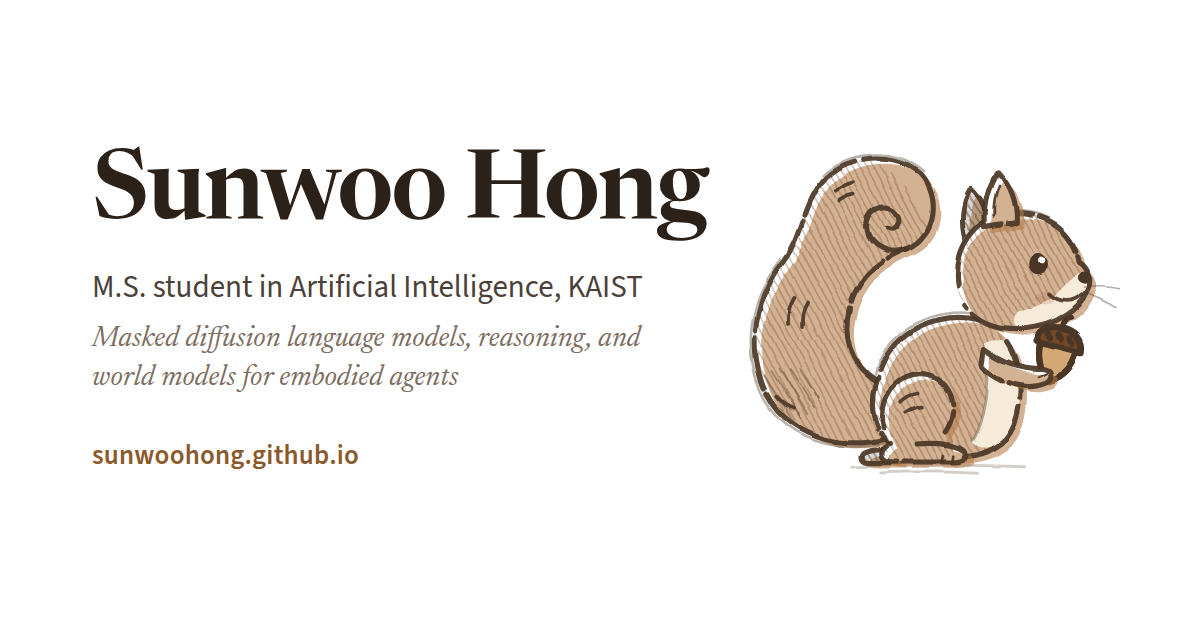
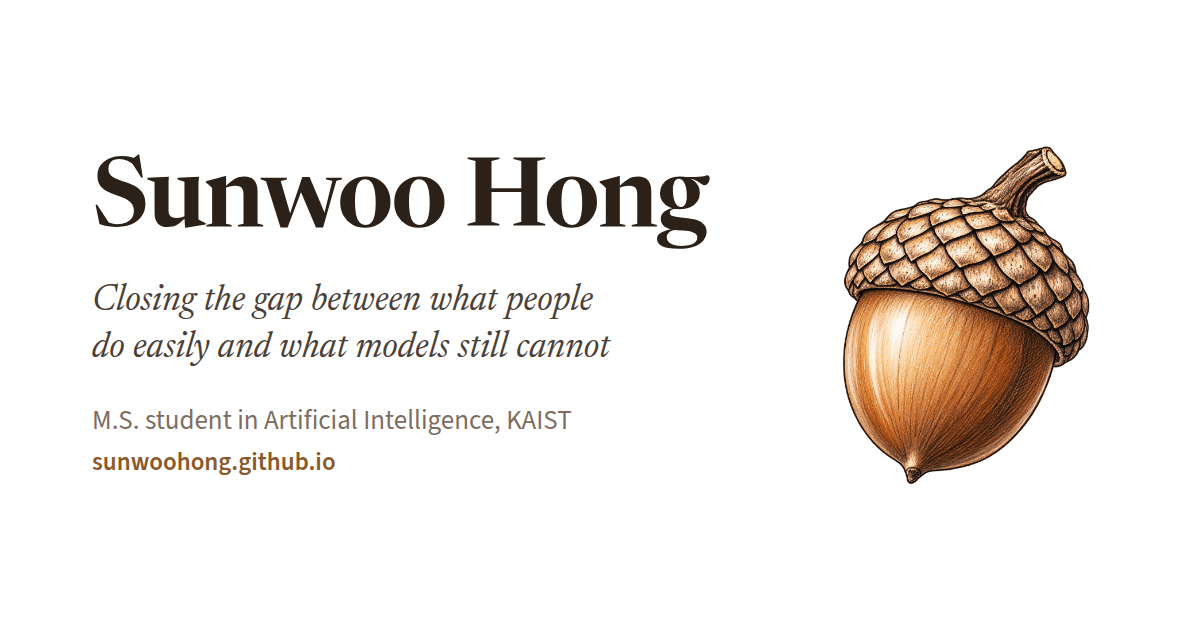
Add files via upload

Changed region(s): [[0.6167, 0.2111, 0.925, 0.7841], [0.0617, 0.4222, 0.555, 0.754], [0.0617, 0.2111, 0.6167, 0.3921]]

diff --git a/index.html b/index.html
@@ -6,23 +6,23 @@
 
 <title>Sunwoo Hong</title>
 <meta name="author" content="Sunwoo Hong" />
-<meta name="description" content="Sunwoo Hong — M.S. student at KAIST AI working on discrete diffusion models, reasoning, and world models for embodied agents." />
+<meta name="description" content="M.S. student at KAIST AI. I work on what people do easily and models still cannot: reasoning in language and in the physical world, and world models for embodied agents." />
 
 <!-- 링크 미리보기 카드 (카카오톡, Slack, X, LinkedIn 등). 이미지는 같은 폴더의 og-image.png -->
 <link rel="canonical" href="https://sunwoohong.github.io/" />
 <meta property="og:type" content="website" />
 <meta property="og:site_name" content="Sunwoo Hong" />
 <meta property="og:title" content="Sunwoo Hong" />
-<meta property="og:description" content="Sunwoo Hong — M.S. student at KAIST AI working on discrete diffusion models, reasoning, and world models for embodied agents." />
+<meta property="og:description" content="M.S. student at KAIST AI. I work on what people do easily and models still cannot: reasoning in language and in the physical world, and world models for embodied agents." />
 <meta property="og:url" content="https://sunwoohong.github.io/" />
 <meta property="og:image" content="https://sunwoohong.github.io/og-image.png" />
 <meta property="og:image:width" content="1200" />
 <meta property="og:image:height" content="630" />
-<meta property="og:image:alt" content="Sunwoo Hong, M.S. student in Artificial Intelligence at KAIST, next to a sketch of a squirrel holding an acorn." />
+<meta property="og:image:alt" content="Sunwoo Hong, M.S. student in Artificial Intelligence at KAIST: closing the gap between what people do easily and what models still cannot. An illustrated acorn." />
 <meta property="og:locale" content="en_US" />
 <meta name="twitter:card" content="summary_large_image" />
 <meta name="twitter:title" content="Sunwoo Hong" />
-<meta name="twitter:description" content="Sunwoo Hong — M.S. student at KAIST AI working on discrete diffusion models, reasoning, and world models for embodied agents." />
+<meta name="twitter:description" content="M.S. student at KAIST AI. I work on what people do easily and models still cannot: reasoning in language and in the physical world, and world models for embodied agents." />
 <meta name="twitter:image" content="https://sunwoohong.github.io/og-image.png" />
 
 <link rel="icon" type="image/png" href="favicon.png" />
@@ -147,7 +147,7 @@
 <!-- ================= PUBLICATIONS (전체는 publications.html) ================= -->
 <section id="publications">
   <div class="wrap">
-    <h2>Selected Papers <a href="publications.html">[full list]</a></h2>
+    <h2>Selected papers <a href="publications.html">[full list]</a></h2>
     <p class="pub-legend">* equal contribution</p>
     <!-- ↓ 논문 카드 하나 복사해서 개수를 늘리세요 -->
 
@@ -211,7 +211,7 @@
 <!-- ================= AWARDS & SERVICE ================= -->
 <section id="awards">
   <div class="wrap">
-    <h2>Awards and Service</h2>
+    <h2>Awards and service</h2>
 
     <h3 class="list-group">Awards</h3>
     <ul class="news">

diff --git a/publications.html b/publications.html
@@ -18,7 +18,7 @@
 <meta property="og:image" content="https://sunwoohong.github.io/og-image.png" />
 <meta property="og:image:width" content="1200" />
 <meta property="og:image:height" content="630" />
-<meta property="og:image:alt" content="Sunwoo Hong, M.S. student in Artificial Intelligence at KAIST, next to a sketch of a squirrel holding an acorn." />
+<meta property="og:image:alt" content="Sunwoo Hong, M.S. student in Artificial Intelligence at KAIST: closing the gap between what people do easily and what models still cannot. An illustrated acorn." />
 <meta property="og:locale" content="en_US" />
 <meta name="twitter:card" content="summary_large_image" />
 <meta name="twitter:title" content="Publications — Sunwoo Hong" />

diff --git a/news.html b/news.html
@@ -18,7 +18,7 @@
 <meta property="og:image" content="https://sunwoohong.github.io/og-image.png" />
 <meta property="og:image:width" content="1200" />
 <meta property="og:image:height" content="630" />
-<meta property="og:image:alt" content="Sunwoo Hong, M.S. student in Artificial Intelligence at KAIST, next to a sketch of a squirrel holding an acorn." />
+<meta property="og:image:alt" content="Sunwoo Hong, M.S. student in Artificial Intelligence at KAIST: closing the gap between what people do easily and what models still cannot. An illustrated acorn." />
 <meta property="og:locale" content="en_US" />
 <meta name="twitter:card" content="summary_large_image" />
 <meta name="twitter:title" content="News — Sunwoo Hong" />
